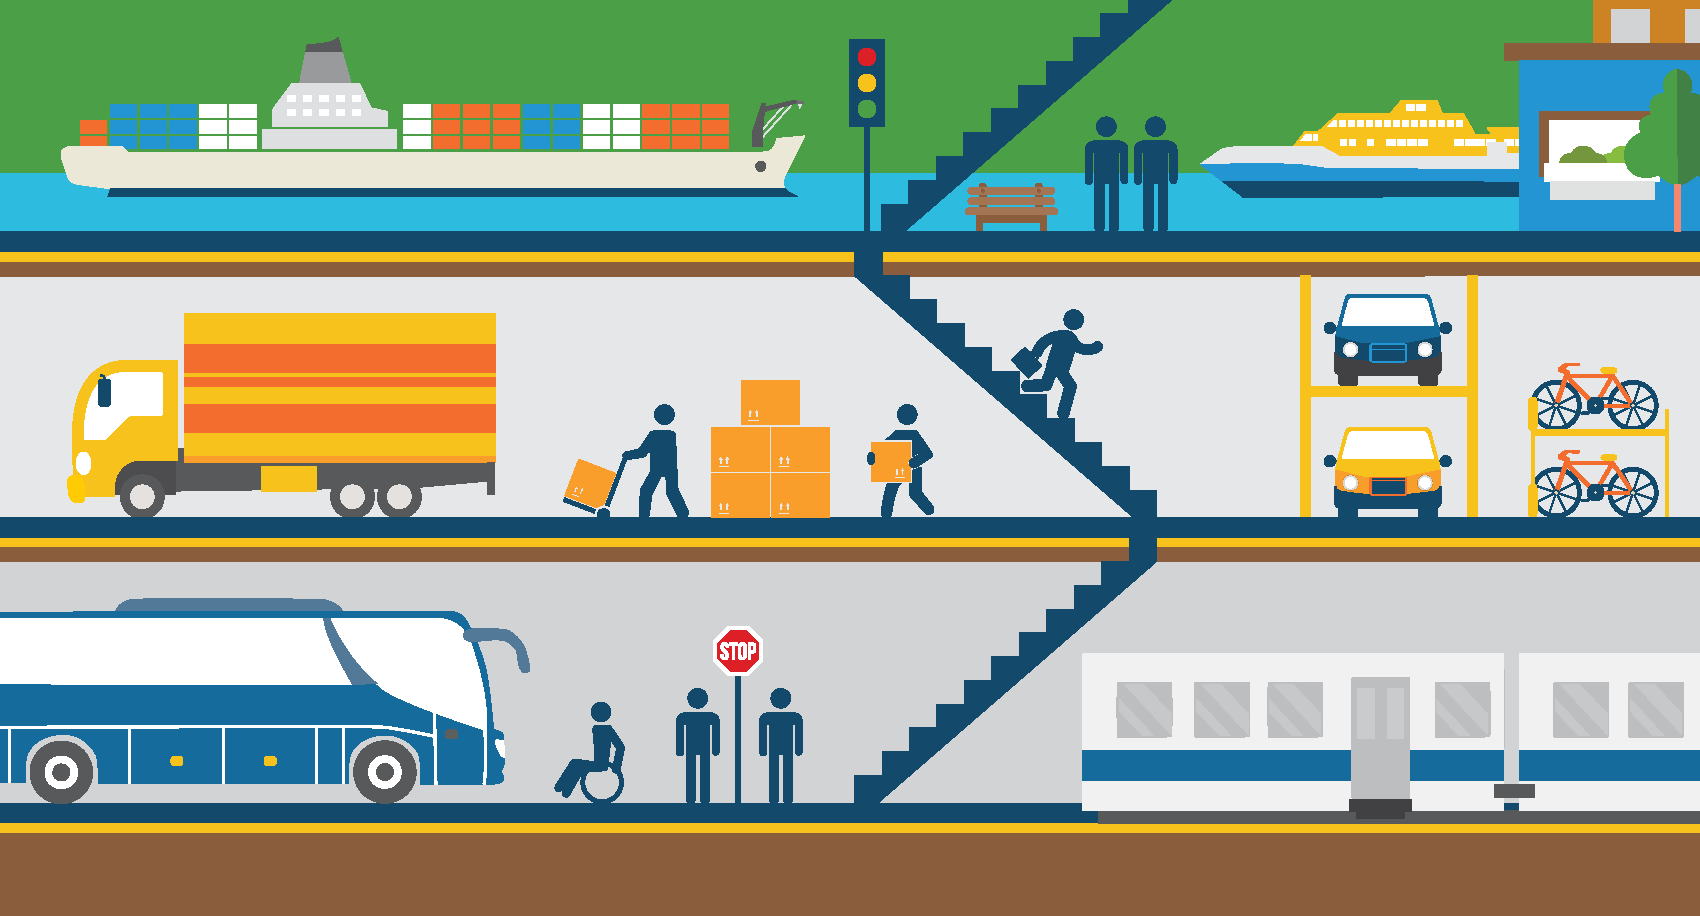
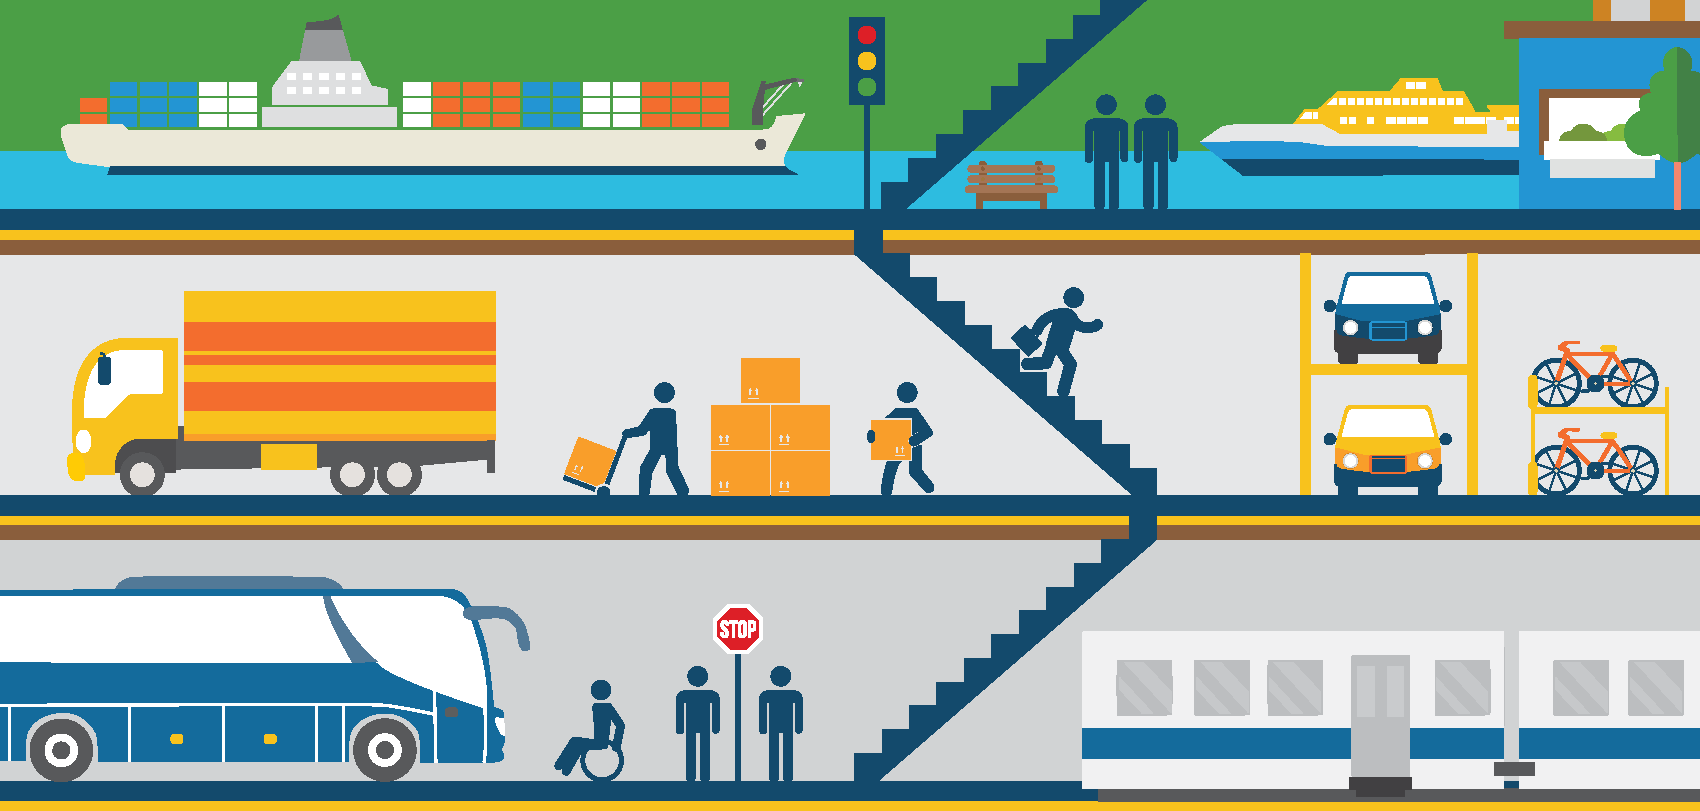
changed cover image

diff --git a/src/index.js b/src/index.js
@@ -1,17 +1,22 @@
 import 'bootstrap';
 import './style.scss';
+import cover from './images/transport1.png';
+document.getElementById('cover').src = cover;
 var sdgkplogo = document.getElementById('sdgsummitLogo');
 var $ = require('jquery');
+
 function headerSmall () {
 	sdgkplogo.className = 'sdgkplogo_small';
 	$('button.navbar-toggler').addClass('mt-3').removeClass('mt-5');
 	$('form#search-form').addClass('mt-3').removeClass('mt-5');
 };
+
 function headerNormal () {
 	sdgkplogo.className = 'sdgkplogo_normal';
 	$('button.navbar-toggler').addClass('mt-5').removeClass('mt-3');
 	$('form#search-form').addClass('mt-5').removeClass('mt-3');
 };
+
 function resizeHeader () {
 	if ($('body').scrollTop() > 35 || $(window).width() < 576) {
 		headerSmall();

diff --git a/src/index.html b/src/index.html
@@ -137,7 +137,7 @@ High-Level Midterm Review 2019, 27 September 2019, New York, partnerships for su
                                 <!-- Card image -->
                                 <div class="view overlay">
                                     <div style="position: relative;">
-                                        <img id="cover" src="//sustainabledevelopment.un.org/content/images/image18_8212.jpg" class="img-fluid" alt="cover image">
+                                        <img id="cover" class="img-fluid" alt="cover image">
                                         <div class="desa_stairs_big"></div>
                                     </div>
                                 </div>
